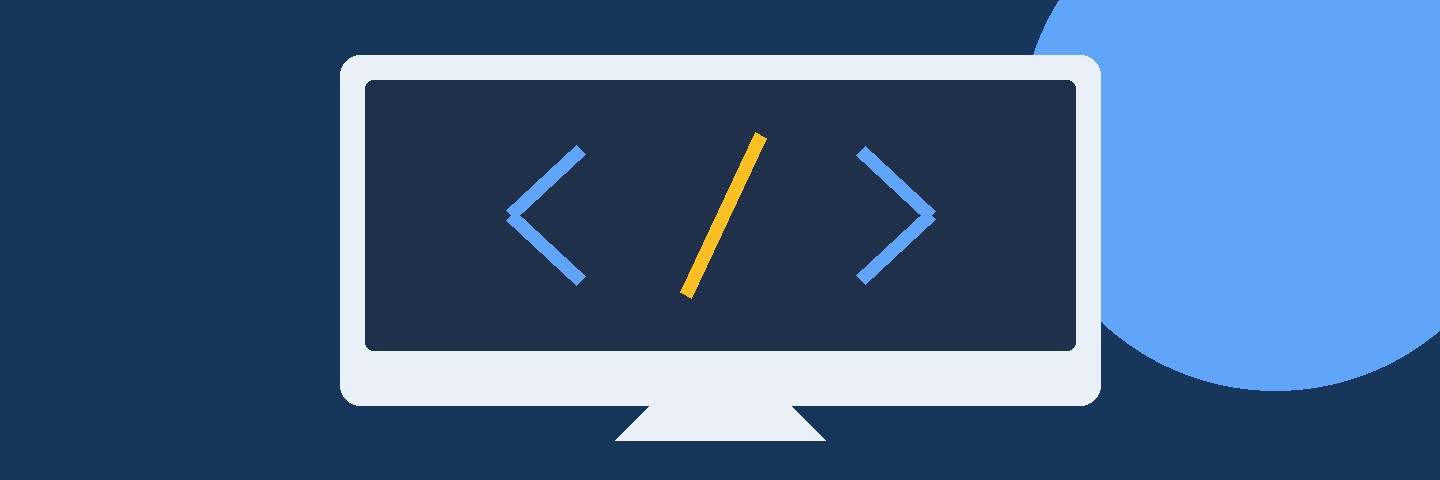
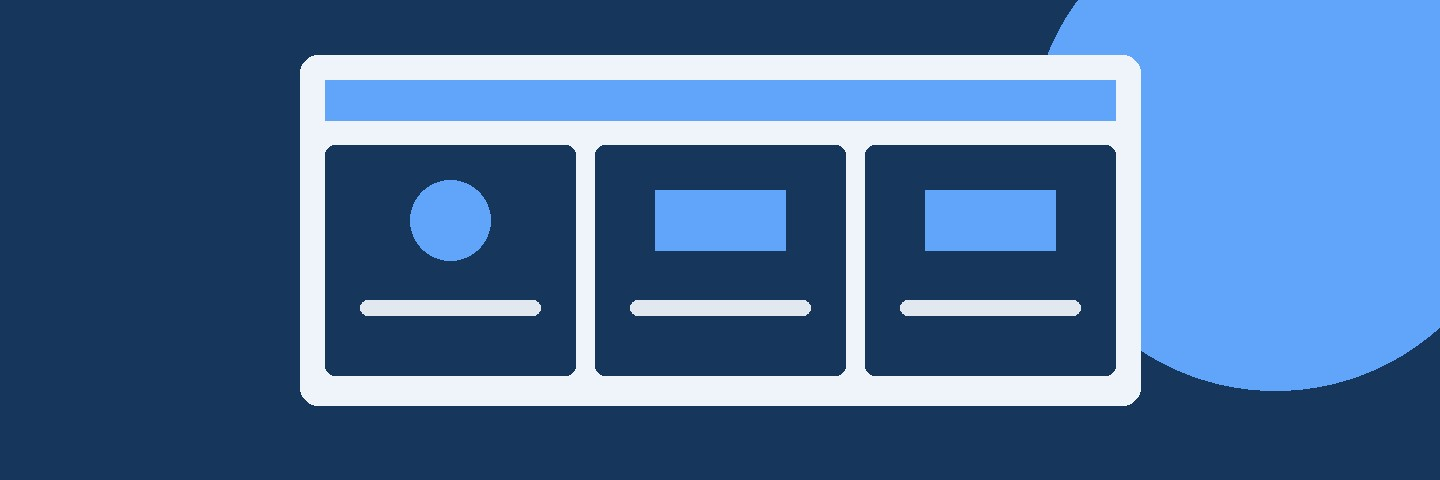
Add files via upload

Changed region(s): [[0.1875, 0.0, 0.8125, 0.8438], [0.4062, 0.8438, 0.5938, 0.9375]]

diff --git a/index.html b/index.html
@@ -3,57 +3,67 @@
 <head>
     <meta charset="UTF-8">
     <meta name="viewport" content="width=device-width, initial-scale=1.0">
-    <title>Trang Chủ với Bootstrap</title>
+    <title>Bố Cục 3 Cột bằng Bootstrap Grid và Flexbox</title>
     <link href="https://cdn.jsdelivr.net/npm/bootstrap@5.3.3/dist/css/bootstrap.min.css" rel="stylesheet">
     <link rel="stylesheet" href="https://cdnjs.cloudflare.com/ajax/libs/font-awesome/6.5.2/css/all.min.css">
 </head>
 <body>
-    <nav class="navbar navbar-expand-lg navbar-dark bg-dark" aria-label="Điều hướng chính">
-        <div class="container">
-            <a class="navbar-brand" href="#"><i class="fas fa-home" aria-hidden="true"></i> MyWebsite</a>
-            <button class="navbar-toggler" type="button" data-bs-toggle="collapse" data-bs-target="#navbarNav" aria-controls="navbarNav" aria-expanded="false" aria-label="Mở hoặc đóng menu">
-                <span class="navbar-toggler-icon"></span>
-            </button>
-            <div class="collapse navbar-collapse" id="navbarNav">
-                <ul class="navbar-nav ms-auto">
-                    <li class="nav-item"><a class="nav-link" href="#">Home</a></li>
-                    <li class="nav-item"><a class="nav-link" href="#">About</a></li>
-                    <li class="nav-item"><a class="nav-link" href="#">Services</a></li>
-                    <li class="nav-item"><a class="nav-link" href="#">Contact</a></li>
-                </ul>
+    <div class="container mt-5">
+        <div class="row">
+            <div class="col-md-4 d-flex justify-content-center align-items-center bg-light p-3">
+                <p>Phần 1</p>
+            </div>
+            <div class="col-md-4 d-flex justify-content-center align-items-center bg-secondary p-3 text-white">
+                <p>Phần 2</p>
+            </div>
+            <div class="col-md-4 d-flex justify-content-center align-items-center bg-light p-3">
+                <p>Phần 3</p>
             </div>
         </div>
-    </nav>
-    <div id="heroCarousel" class="carousel slide" data-bs-ride="carousel">
+    </div>
+    <div class="container my-5 py-3">
+        <h3 class="text-center">Khoảng cách được điều chỉnh bằng Margin &amp; Padding</h3>
+    </div>
+    <div class="d-none d-md-block bg-warning text-center p-3">
+        <p>Nội dung này chỉ hiển thị trên màn hình lớn hơn hoặc bằng 768px</p>
+    </div>
+    <div id="myCarousel" class="carousel slide mt-5" data-bs-ride="carousel">
         <div class="carousel-inner">
             <div class="carousel-item active">
-                <img src="image1.jpg" class="d-block w-100" width="1440" height="480" alt="Slide 1: Minh họa máy tính và mã lập trình">
+                <img src="image1.jpg" class="d-block w-100" width="1440" height="480" alt="Hình ảnh 1">
             </div>
             <div class="carousel-item">
-                <img src="image2.jpg" class="d-block w-100" width="1440" height="480" alt="Slide 2: Minh họa các khối bố cục giao diện web">
+                <img src="image2.jpg" class="d-block w-100" width="1440" height="480" alt="Hình ảnh 2">
+            </div>
+            <div class="carousel-item">
+                <img src="image3.jpg" class="d-block w-100" width="1440" height="480" alt="Hình ảnh 3">
             </div>
         </div>
-        <button class="carousel-control-prev" type="button" data-bs-target="#heroCarousel" data-bs-slide="prev" aria-label="Ảnh trước">
+        <button class="carousel-control-prev" type="button" data-bs-target="#myCarousel" data-bs-slide="prev" aria-label="Hình ảnh trước">
             <span class="carousel-control-prev-icon" aria-hidden="true"></span>
         </button>
-        <button class="carousel-control-next" type="button" data-bs-target="#heroCarousel" data-bs-slide="next" aria-label="Ảnh tiếp theo">
+        <button class="carousel-control-next" type="button" data-bs-target="#myCarousel" data-bs-slide="next" aria-label="Hình ảnh tiếp theo">
             <span class="carousel-control-next-icon" aria-hidden="true"></span>
         </button>
     </div>
-    <div class="d-flex justify-content-center align-items-center bg-light py-5">
-        <h2>Chào mừng đến với trang web của chúng tôi!</h2>
+    <div class="container mt-5">
+        <h3><i class="fas fa-home" aria-hidden="true"></i> Trang chủ</h3>
     </div>
-    <form class="container mt-4" method="post" id="contactForm">
+    <form class="container mt-5" method="post" id="contactForm">
         <div class="mb-3">
-            <label for="name" class="form-label">Tên của bạn</label>
-            <input type="text" class="form-control" id="name" name="name" placeholder="Nhập tên">
+            <label for="name" class="form-label">Họ và tên</label>
+            <input type="text" class="form-control" id="name" name="name" placeholder="Nhập họ và tên">
         </div>
         <div class="mb-3">
             <label for="email" class="form-label">Email</label>
             <input type="email" class="form-control" id="email" name="email" placeholder="Nhập email">
         </div>
-        <button type="submit" class="btn btn-primary">Gửi</button>
-        <p id="formResult" class="text-muted mt-3" role="status" hidden></p>
+        <div class="mb-3">
+            <label for="message" class="form-label">Nội dung</label>
+            <textarea class="form-control" id="message" name="message" rows="4" placeholder="Nhập nội dung"></textarea>
+        </div>
+        <button type="submit" class="btn btn-primary"><i class="fas fa-paper-plane" aria-hidden="true"></i> Gửi</button>
+        <p class="text-muted mt-3" id="formResult" role="status" hidden></p>
     </form>
     <script src="https://cdn.jsdelivr.net/npm/bootstrap@5.3.3/dist/js/bootstrap.bundle.min.js"></script>
     <script src="script.js"></script>

diff --git a/script.js b/script.js
@@ -1,4 +1,4 @@
-// Đề chưa cung cấp server nhận liên hệ: chỉ minh họa thao tác submit.
+// Form minh họa: đề chưa cung cấp server nhận dữ liệu.
 document.getElementById('contactForm').addEventListener('submit', function (event) {
     event.preventDefault();
     const result = document.getElementById('formResult');

diff --git a/README.md b/README.md
@@ -1,19 +1,21 @@
-# Thực hành: Xây dựng Trang Chủ với Bootstrap
+# Bố cục 3 cột bằng Bootstrap Grid và Flexbox
 
-## Chạy
-Mở index.html bằng trình duyệt có Internet để tải Bootstrap 5.3.3 và Font Awesome 6.5.2. Giữ script.js, image1.jpg và image2.jpg cùng thư mục.
+Mở index.html bằng trình duyệt có Internet để tải Bootstrap 5.3.3 và Font Awesome 6.5.2. Giữ script.js và cả 3 ảnh JPEG cùng thư mục.
 
-## Nội dung theo đề
-- Navbar có Font Awesome fas fa-home, menu collapse.
-- Carousel heroCarousel gồm hai ảnh JPEG minh họa được vẽ riêng, cùng kích thước 1440x480; có nút trước/sau và data-bs-ride="carousel".
-- Display d-block, Flexbox d-flex, justify-content-center, align-items-center.
-- Khoảng cách dùng py-5, mt-4, mb-3.
-- Form gồm tên, email và nút Gửi.
-- Các liên kết Navbar giữ href="#" theo ví dụ.
-- Form chỉ minh họa gửi dữ liệu vì đề không có backend; script.js ngăn gửi và hiển thị thông báo, không lưu dữ liệu.
+## Đầy đủ 6 bước
+1. container mt-5, row và 3 cột col-md-4; d-flex căn giữa nội dung.
+2. container my-5 py-3 điều chỉnh khoảng cách.
+3. d-none d-md-block ẩn nội dung dưới 768px.
+4. myCarousel có 3 ảnh cùng kích thước, tự chạy và nút trước/sau.
+5. Icon fas fa-home và fas fa-paper-plane.
+6. Form Họ và tên, Email, Nội dung, nút Gửi.
 
-## Kiểm tra
-Đã kiểm tra cấu trúc HTML, liên kết ảnh, kích thước JPEG, đích collapse/carousel và cú pháp JavaScript. Chưa kiểm tra trực tiếp trên trình duyệt.
-Mở bài để thử chuyển hai ảnh, tự chạy Carousel, menu mobile và form trước khi nộp.
+Ảnh JPEG minh họa được vẽ riêng và đóng gói. Form chỉ minh họa submit vì đề không cung cấp backend, không gửi/lưu dữ liệu.
 
-Tải toàn bộ thư mục bootstrap-home lên GitHub và nộp link thư mục hoặc repository.
+## Kiểm tra trước khi nộp
+- Từ 768px: 3 cột nằm ngang và khối màu vàng hiển thị.
+- Dưới 768px: các cột xếp dọc, khối vàng ẩn.
+- Thử nút chuyển ảnh, Carousel tự chạy, icon và nút Gửi.
+
+Đã kiểm tra cấu trúc, class Bootstrap, tài nguyên ảnh, đích Carousel và cú pháp JavaScript; chưa kiểm tra trực tiếp trên trình duyệt.
+Tải toàn bộ thư mục bootstrap-three-columns lên GitHub và nộp link thư mục/repository.
